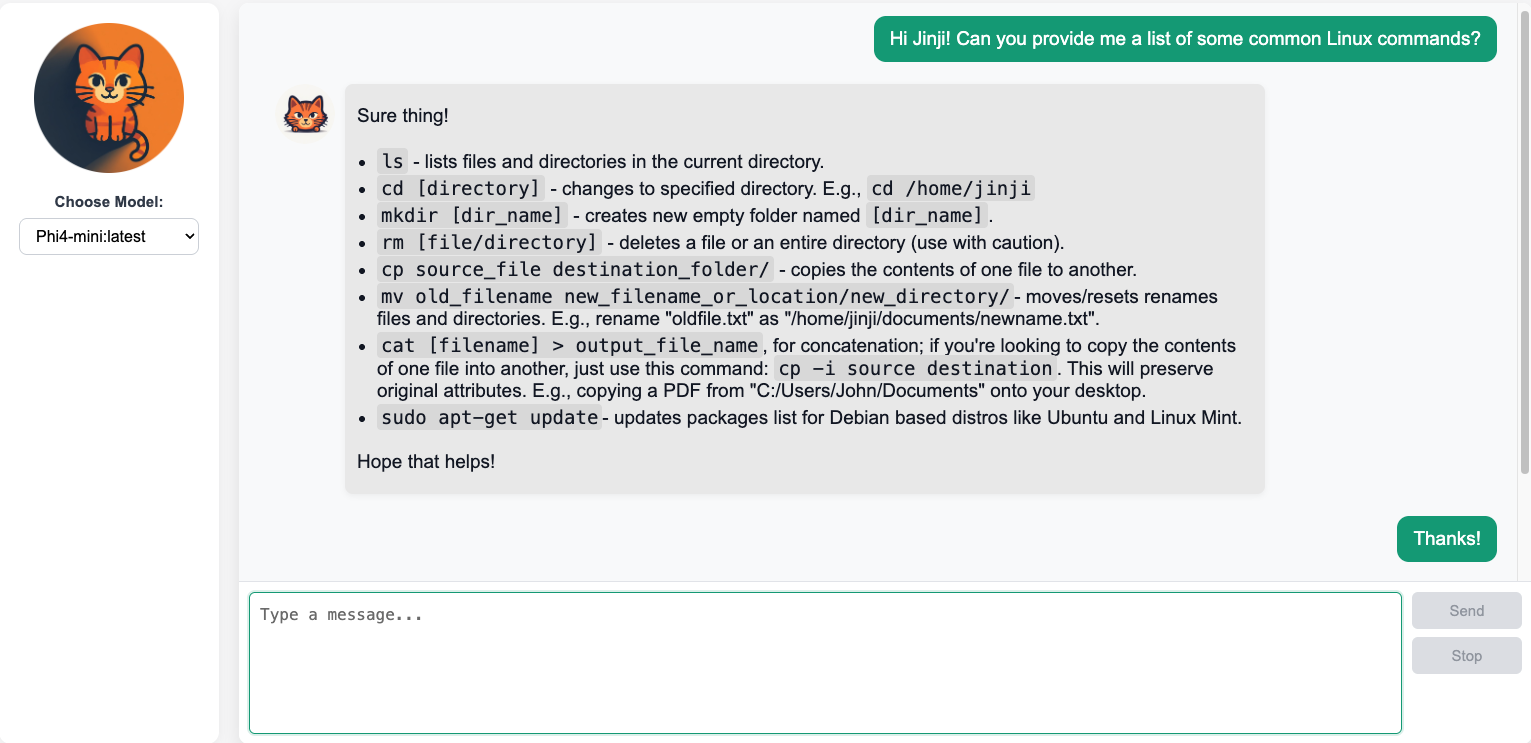
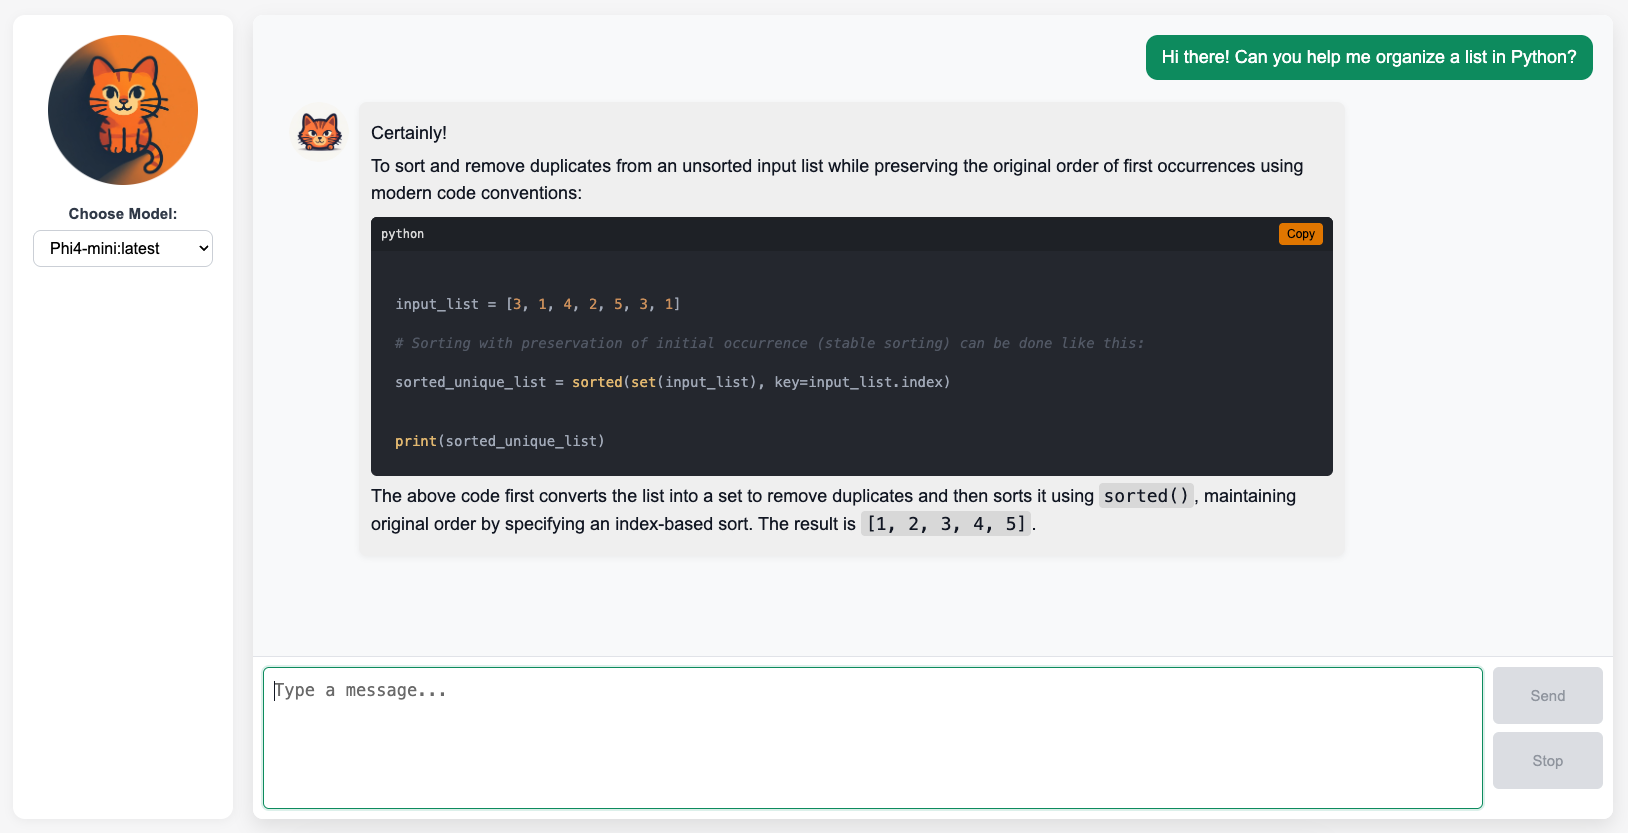
Updated CSS

diff --git a/frontend/css/styles.css b/frontend/css/styles.css
@@ -14,7 +14,7 @@ body {
 
 #main-container {
   display: flex;
-  width: 1720px;
+  width: 1600px;
   height: 95vh;
   gap: 20px;
 }
@@ -64,7 +64,7 @@ body {
 
 #model-selector:hover,
 #model-selector:focus {
-  border-color: #10a37f;
+  border-color: #059669;
   outline: none;
   box-shadow: 0 0 5px rgba(16,163,127,0.3);
 }
@@ -107,7 +107,7 @@ body {
 #input {
   flex: 1;
   padding: 10px;
-  font-size: 16px;
+  font-size: 17px;
   border-radius: 6px;
   border: 1px solid #d1d5db;
   resize: none;
@@ -118,7 +118,7 @@ body {
 }
 
 #input:focus {
-  border-color: #10a37f;
+  border-color: #059669;
   outline: none;
   box-shadow: 0 0 0 2px rgba(16,163,127,0.15);
 }
@@ -132,7 +132,7 @@ body {
 
 #send-button,
 #stop-button {
-  padding: 10px;
+  padding: 20px;
   font-size: 15px;
   border: none;
   border-radius: 6px;
@@ -141,8 +141,8 @@ body {
   transition: all 0.2s ease;
 }
 
-#send-button { background-color: #10a37f; }
-#send-button:hover:enabled { background-color: #0d8f6f; }
+#send-button { background-color: #059669; }
+#send-button:hover:enabled { background-color: #408171; }
 
 #stop-button { background-color: #ef4444; }
 #stop-button:hover:enabled { background-color: #dc2626; }
@@ -169,7 +169,7 @@ body {
 
 .user {
   align-self: flex-end;
-  background-color: #10a37f;
+  background-color: #059669;
   color: white;
   font-size: 18px;
   white-space: pre-wrap;
@@ -200,7 +200,7 @@ body {
 }
 
 .bot-content {
-  background-color: #ebebeb;
+  background-color: #f1f1f1;
   padding: 12px;
   border-radius: 8px;
   box-shadow: 0 2px 6px rgba(0,0,0,0.05);
@@ -218,13 +218,13 @@ body {
 .bot-content li { margin: 4px 0; }
 
 /* -------------------------
-   Code Block System (Highlight.js + Atom One Dark)
+   Code Block System
 ------------------------- */
 .code-wrapper {
   margin-top: 10px;
   border-radius: 6px;
   overflow: hidden;
-  background-color: #282c34; /* Atom One Dark bg */
+  background-color: #282c34;
 }
 
 .code-header {
@@ -256,16 +256,16 @@ body {
   padding: 10px;
   overflow-x: auto;
   white-space: pre-wrap;
-  background: none; /* let wrapper bg show */
-  color: unset;    /* allow hljs colors */
+  background: none;
+  color: unset;
 }
 
 /* Highlight.js base styling */
 .hljs {
   display: block;
   overflow-x: auto;
-  background: none; /* wrapper background shows */
-  color: unset;     /* use hljs colors */
+  background: none;
+  color: unset;
   font-family: monospace;
   font-size: 14px;
   line-height: 1.4;
